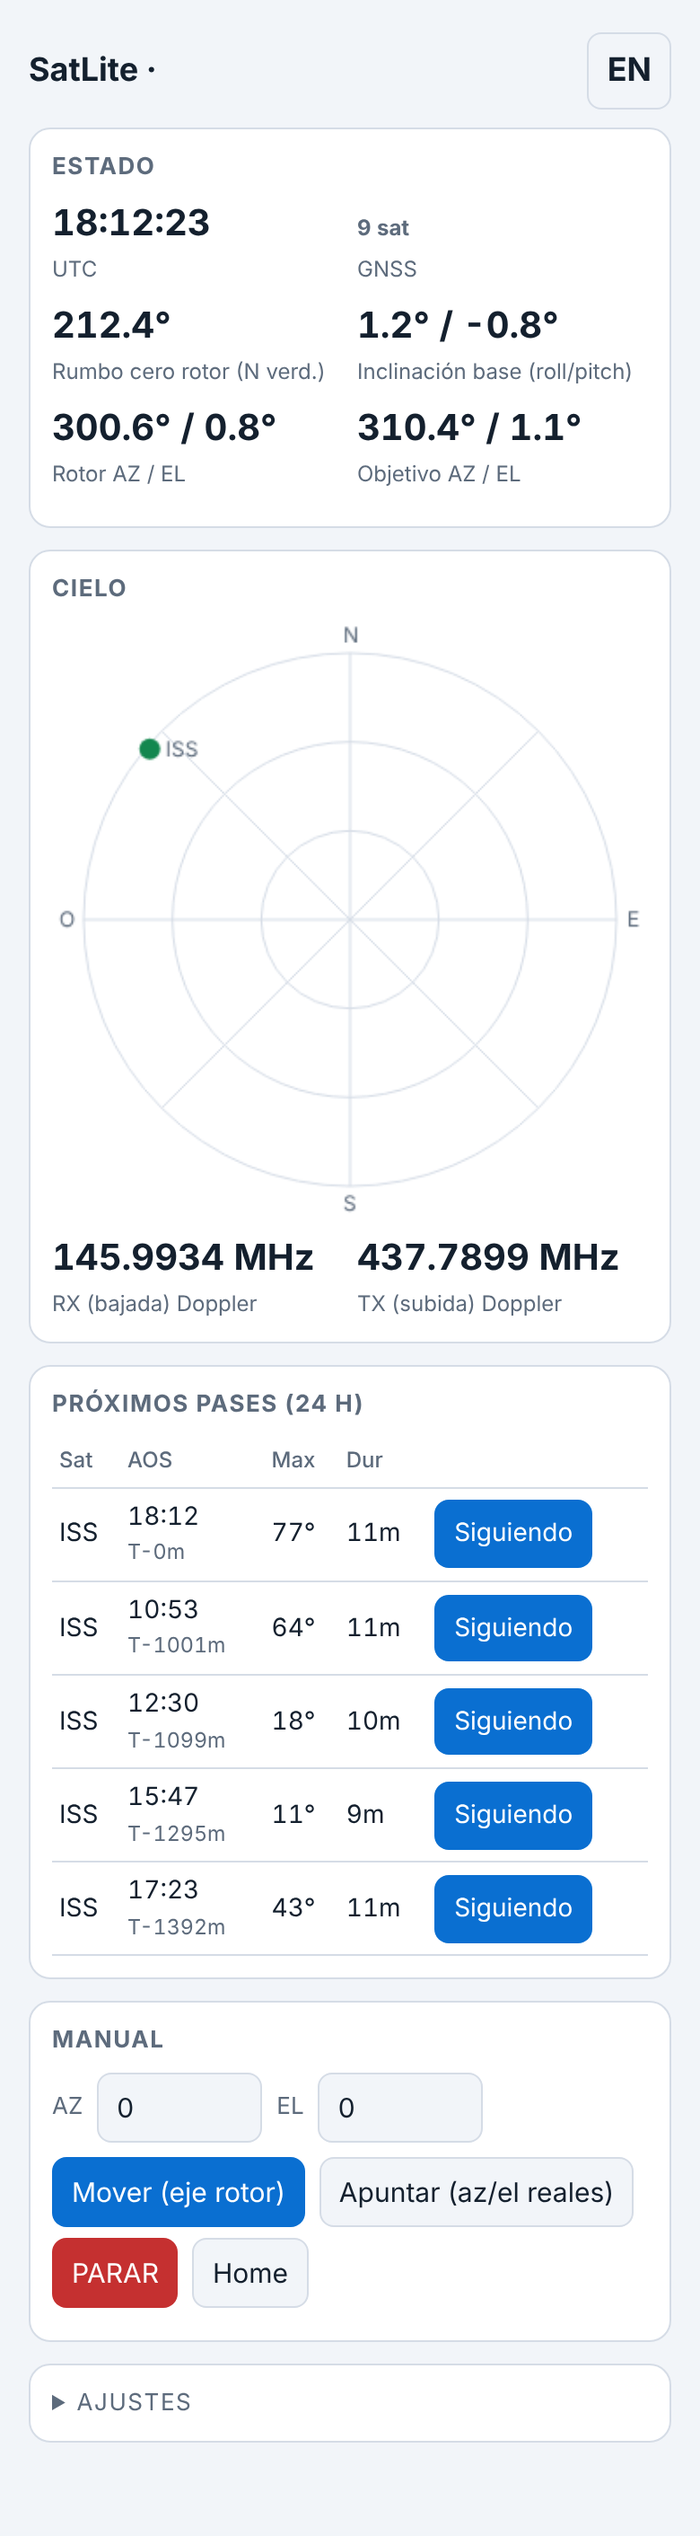
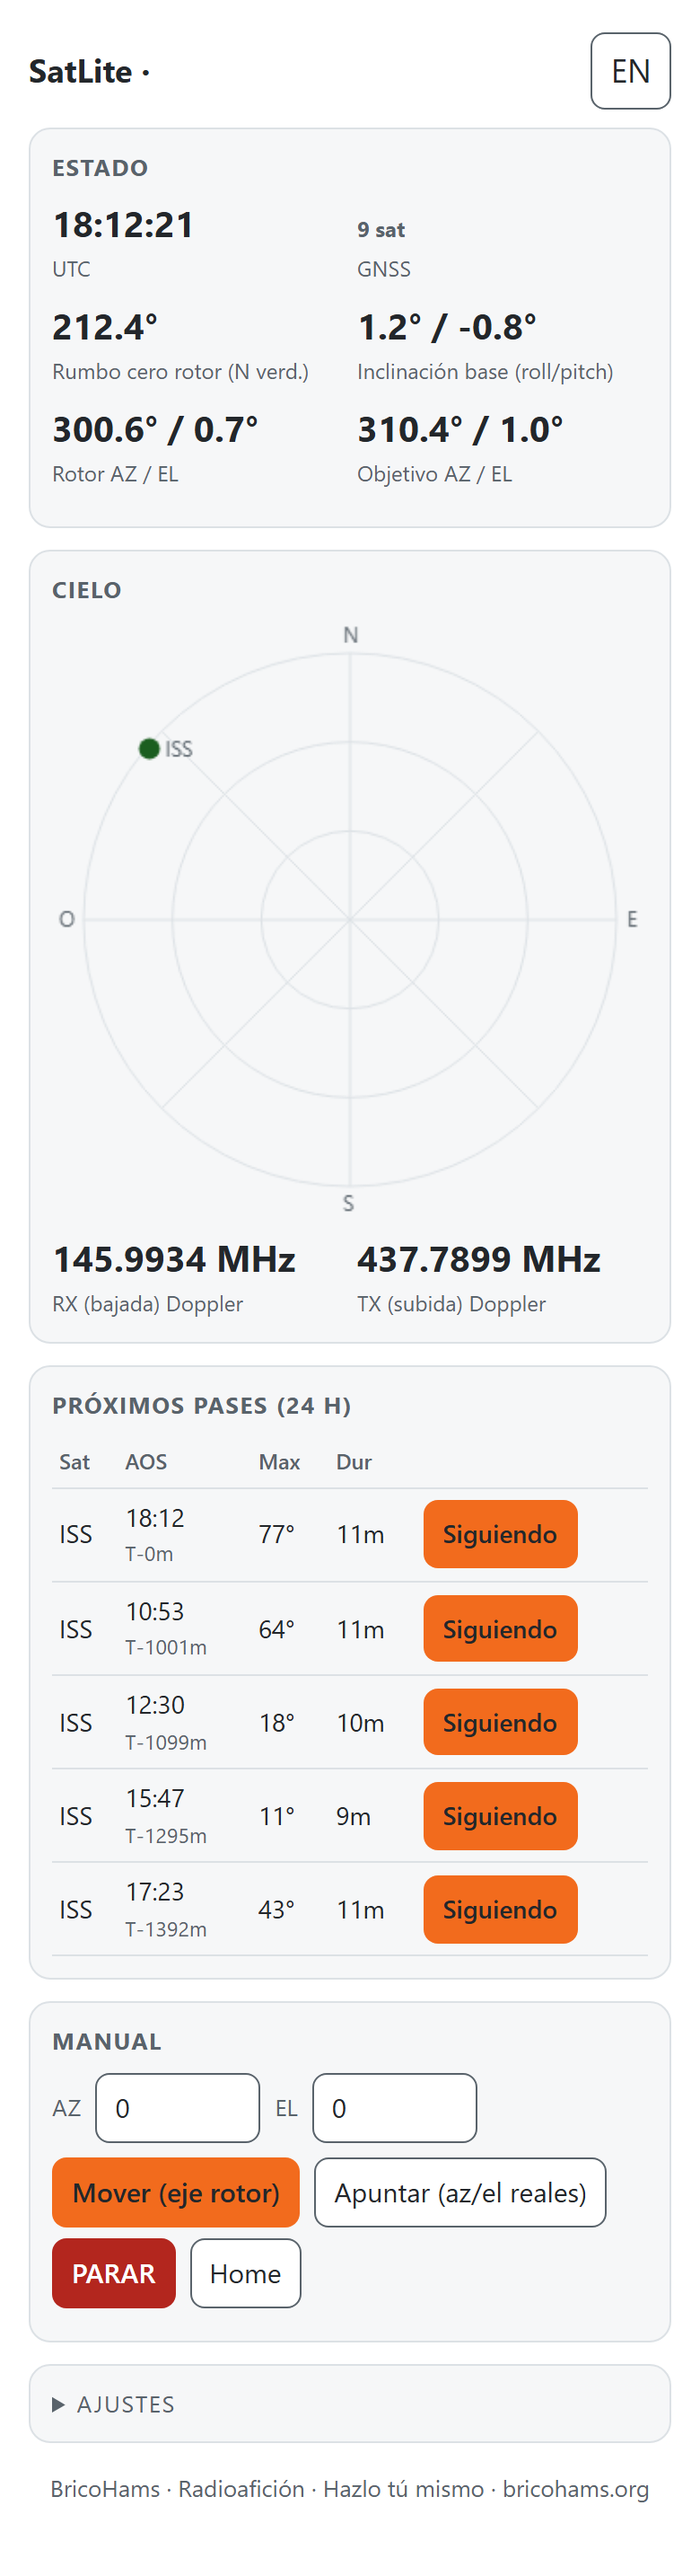
style: apply Manual de color BricoHams v1.1 (#3)
* style: apply Manual de color BricoHams v1.1 to the SatLite web UI

Orange accent with graphite text, Manual v1.1 light/dark tokens, visible control
borders and a solid focus ring; BricoHams line in the footer. The firmware only
serves index.html, so no logo image is added there. README no longer shows the
logo twice.

* docs: refresh SatLite UI screenshot with the BricoHams palette

---------

diff --git a/PortableSatLite/firmware/data/index.html b/PortableSatLite/firmware/data/index.html
@@ -1,13 +1,15 @@
 <!doctype html><html lang="es"><head><meta charset="utf-8"><meta name="viewport" content="width=device-width,initial-scale=1">
 <title>SatLite</title>
 <style>
-:root{--bg:#10141a;--card:#1a212b;--ink:#e8edf3;--mut:#8b98a8;--acc:#43b0ff;--ok:#4cd08a;--bad:#ff6b6b;--warn:#f4c04e;--line:#2a3442}
-@media (prefers-color-scheme:light){:root{--bg:#f2f5f9;--card:#fff;--ink:#14202e;--mut:#5d6b7c;--acc:#0a6fd1;--ok:#13874f;--bad:#c53030;--warn:#a06b00;--line:#d5dce6}}
+/* Manual de color BricoHams v1.1 */
+:root{--bg:#111518;--card:#1c2329;--ink:#f6f8fa;--mut:#bac4cc;--acc:#f26b1d;--on-acc:#23272b;--ok:#7bd88f;--bad:#ff8a80;--on-bad:#111518;--warn:#ffc857;--line:#38434c;--ctl:#bac4cc;--focus:#ffc18f}
+@media (prefers-color-scheme:light){:root{--bg:#fff;--card:#f6f7f8;--ink:#23272b;--mut:#59636b;--acc:#f26b1d;--on-acc:#23272b;--ok:#1b5e20;--bad:#b3261e;--on-bad:#fff;--warn:#7a4f00;--line:#dce1e5;--ctl:#59636b;--focus:#f26b1d}}
 *{box-sizing:border-box}body{margin:0;background:var(--bg);color:var(--ink);font:15px/1.4 system-ui,sans-serif;padding:12px 16px 40px;max-width:760px;margin-inline:auto}
 h1{font-size:18px;margin:6px 0 10px;display:flex;justify-content:space-between;align-items:center}h2{font-size:13px;text-transform:uppercase;letter-spacing:.06em;color:var(--mut);margin:0 0 8px}
 .card{background:var(--card);border:1px solid var(--line);border-radius:12px;padding:12px;margin-bottom:12px}
 .grid{display:grid;grid-template-columns:repeat(auto-fit,minmax(110px,1fr));gap:8px}.kv b{display:block;font-size:20px;font-variant-numeric:tabular-nums}.kv span{color:var(--mut);font-size:12px}
-button,select,input{font:inherit;color:var(--ink);background:var(--bg);border:1px solid var(--line);border-radius:8px;padding:8px 10px}button{cursor:pointer;background:var(--acc);color:#fff;border-color:transparent}button.sec{background:var(--bg);color:var(--ink);border-color:var(--line)}button.stop{background:var(--bad)}
+button,select,input{font:inherit;color:var(--ink);background:var(--bg);border:1px solid var(--ctl);border-radius:8px;padding:8px 10px}button{cursor:pointer;background:var(--acc);color:var(--on-acc);font-weight:600;border-color:transparent}button.sec{background:var(--bg);color:var(--ink);border-color:var(--ctl);font-weight:400}button.stop{background:var(--bad);color:var(--on-bad)}
+:focus-visible{outline:3px solid var(--focus);outline-offset:3px}footer{margin-top:16px;color:var(--mut);font-size:13px;text-align:center}
 table{width:100%;border-collapse:collapse;font-variant-numeric:tabular-nums}td,th{padding:6px 4px;border-bottom:1px solid var(--line);text-align:left;font-size:14px}th{color:var(--mut);font-weight:500;font-size:12px}
 .pill{display:inline-block;padding:1px 8px;border-radius:99px;font-size:12px;border:1px solid var(--line)}.ok{color:var(--ok)}.bad{color:var(--bad)}.warn{color:var(--warn)}
 canvas{width:100%;max-width:340px;aspect-ratio:1;display:block;margin:auto}.row{display:flex;gap:8px;flex-wrap:wrap;align-items:center;margin:6px 0}label{color:var(--mut);font-size:13px}input{width:92px}
@@ -73,4 +75,6 @@ q('tu',async()=>{$('tlemsg').textContent='...';$('tlemsg').textContent=await api
 q('tlup',()=>fetch('/api/tle_upload',{method:'POST',body:$('tlet').value}).then(r=>r.text()));
 ['lat','lon','alt','decl'].forEach(k=>$(k).addEventListener('input',()=>$(k).dataset.set='1'));
 applyLang();poll();pollP();
-</script></body></html>
+</script>
+<footer>BricoHams · Radioafición · Hazlo tú mismo · bricohams.org</footer>
+</body></html>

diff --git a/README.md b/README.md
@@ -4,8 +4,6 @@
 
 # PortableSatStation - estacion portable 145/435 MHz
 
-![BricoHams](branding/bricohams_horizontal.png)
-
 **BricoHams · documentacion de ingenieria y montaje**
 
 Accesos: [catalogo visual de todos los componentes inventariados](docs/assembly/components/README.md),
